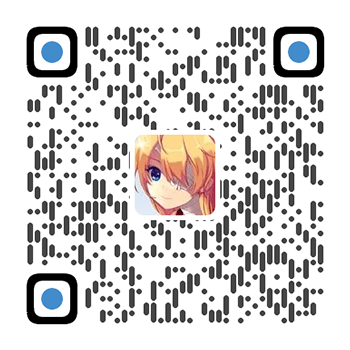
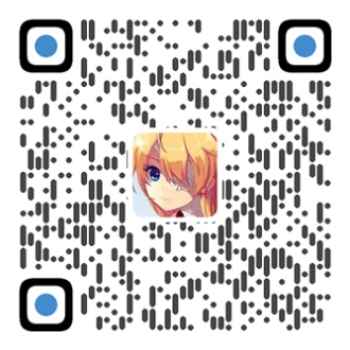
feat: 替换赞赏二维码、首页卡片改用文章首图/二次元素材、新增 CDN 失效兜底
1. 赞赏二维码换成博主自己的（从截图裁出，含 6% 白边静区，350x350 对齐原尺寸）
   - images/wechatpay.png / alipay.png / paypal.png
2. 首页 5 张卡片封面改为本地图片（690x431，按主题原有 1.601 比例裁剪）
   - Grok 篇：用文章正文第一张图（x.ai 官网截图）
   - 其余 4 篇正文无图，取二次元素材（H://☆二次元漫画模型工作流//例图）随机填充
   - 裁剪策略：竖构图按行细节密度找主体带并偏上取景，横构图按列细节密度定左右
3. 新增 js/fallback.js 并注入 8 个页面（5 个文章页由 deploy_articles.sh 处理）
   背景：主题把 lozad/anime/pjax 放在 cdn.jsdelivr.net 的 combine URL 里，国内时通时断。
   一旦加载失败，app.js 顶层抛 ReferenceError 整段中断 → body 拿不到 .loaded →
   z-index:9999 的 #loading 遮罩永久盖住页面（即之前排查到的白屏根因），且所有
   data-src 图片永不加载。兜底脚本不依赖外部资源：还原 data-src/data-background-image、
   补 .loaded class、隐藏 #loading。

diff --git a/js/fallback.js b/js/fallback.js
@@ -1,0 +1,67 @@
+/*! fallback.js — 保证页面在 CDN 失效时仍可正常显示
+ *
+ * 背景：Archer 主题把 lozad / anime / pjax / jquery 等库放在 cdn.jsdelivr.net 的
+ * combine URL 里一次性加载。该 CDN 在国内时通时断；一旦加载失败，app.js 顶层就会
+ * 抛 ReferenceError 而整段中断，导致：
+ *   1) body 永远拿不到 .loaded class → #loading 全屏遮罩（z-index:9999）一直盖着页面 → 全白
+ *   2) 图片都是 data-src/data-background-image，没有 lozad 就永远不加载
+ *
+ * 本脚本不依赖任何外部资源，负责在上述情况下兜底。
+ */
+(function () {
+  'use strict';
+
+  function hasLozad() {
+    return typeof window.lozad === 'function';
+  }
+
+  // 把懒加载属性还原成真实属性（仅在 lozad 缺席时做，正常情况保留懒加载）
+  function materialize() {
+    var i, el;
+
+    var imgs = document.querySelectorAll('img[data-src]');
+    for (i = 0; i < imgs.length; i++) {
+      el = imgs[i];
+      if (!el.getAttribute('src')) {
+        el.setAttribute('src', el.getAttribute('data-src'));
+      }
+    }
+
+    var bgs = document.querySelectorAll('[data-background-image]');
+    for (i = 0; i < bgs.length; i++) {
+      el = bgs[i];
+      if (!el.style.backgroundImage) {
+        el.style.backgroundImage = 'url("' + el.getAttribute('data-background-image') + '")';
+      }
+    }
+  }
+
+  function reveal() {
+    if (document.body) {
+      document.body.classList.add('loaded');
+    }
+    var ld = document.getElementById('loading');
+    if (ld) {
+      ld.style.display = 'none';
+    }
+  }
+
+  function run(force) {
+    if (force || !hasLozad()) {
+      materialize();
+    }
+    reveal();
+  }
+
+  // 1) 正常情况：load 后稍等，让主题自己的逻辑先跑
+  if (document.readyState === 'complete') {
+    setTimeout(run, 800);
+  } else {
+    window.addEventListener('load', function () {
+      setTimeout(run, 800);
+    });
+  }
+
+  // 2) 最迟 3.5 秒强制兜底（DOMContentLoaded 起算），覆盖 CDN 完全无响应的情况
+  setTimeout(function () { run(true); }, 3500);
+})();

diff --git a/404.html b/404.html
@@ -292,5 +292,6 @@
 
 
 
+<script src="/js/fallback.js"></script>
 </body>
 </html>

diff --git a/archives/2024/11/index.html b/archives/2024/11/index.html
@@ -349,5 +349,6 @@
 
 
 
+<script src="/js/fallback.js"></script>
 </body>
 </html>

diff --git a/archives/2024/12/index.html b/archives/2024/12/index.html
@@ -333,5 +333,6 @@
 
 
 
+<script src="/js/fallback.js"></script>
 </body>
 </html>

diff --git a/archives/2024/index.html b/archives/2024/index.html
@@ -382,5 +382,6 @@
 
 
 
+<script src="/js/fallback.js"></script>
 </body>
 </html>

diff --git a/archives/index.html b/archives/index.html
@@ -318,5 +318,6 @@
 
 
 
+<script src="/js/fallback.js"></script>
 </body>
 </html>

diff --git a/categories/index.html b/categories/index.html
@@ -293,5 +293,6 @@
 
 
 
+<script src="/js/fallback.js"></script>
 </body>
 </html>

diff --git a/tags/index.html b/tags/index.html
@@ -295,5 +295,6 @@
 
 
 
+<script src="/js/fallback.js"></script>
 </body>
 </html>
